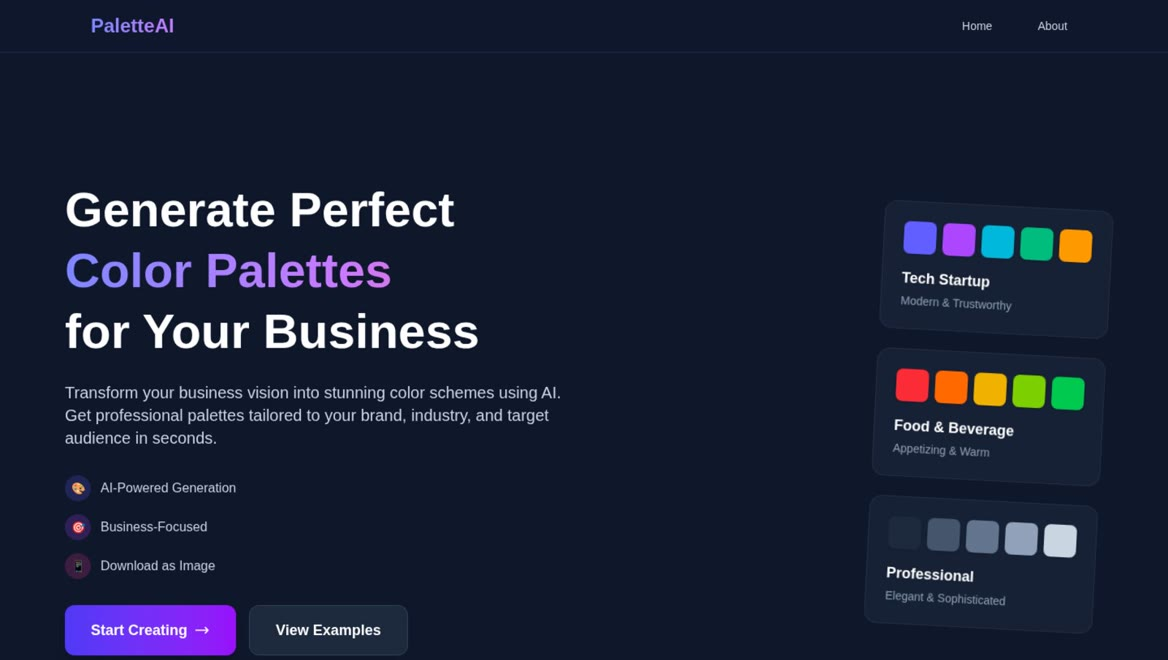
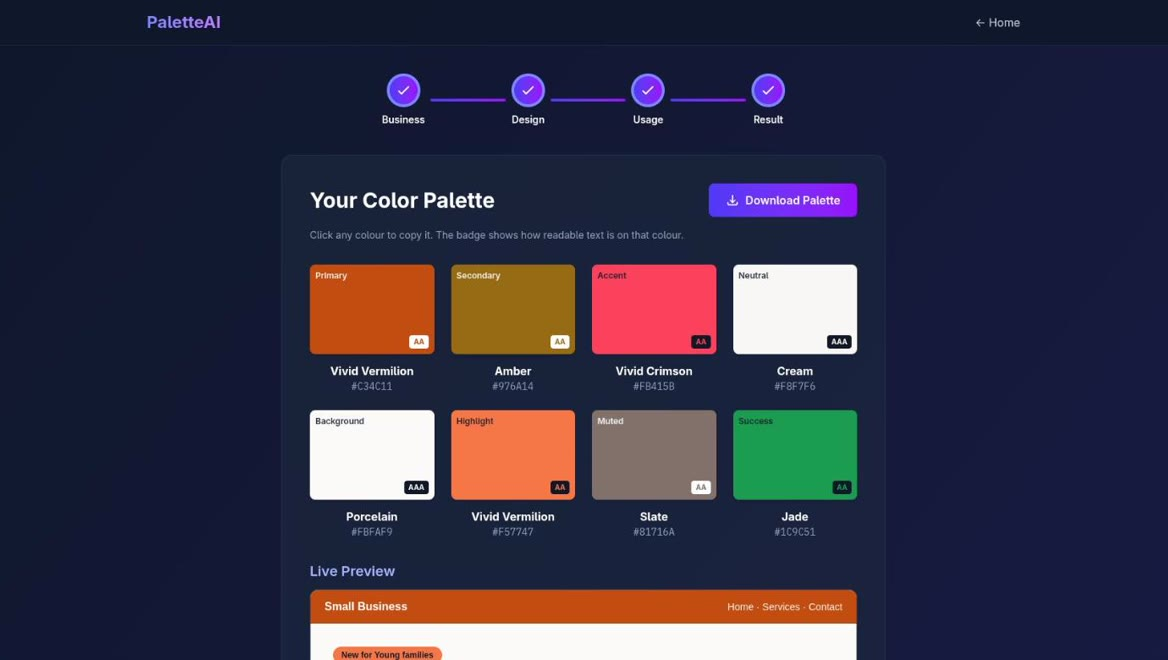
Update PaletteAI link and screenshot

diff --git a/portfolio/src/constants/index.js b/portfolio/src/constants/index.js
@@ -190,7 +190,7 @@ export const projects = [
     name: "PaletteAI",
     description:
       "Describe a business in one line and Mistral 7B returns a colour palette with its reasoning, styled into swatches you can copy.",
-    href: "https://palette-ai-seven.vercel.app",
+    href: "https://palette-ai-generator.vercel.app",
     image: "/assets/projects/paletteai.jpg",
     frameworks: [
       { id: 1, name: "React" },
@@ -198,7 +198,7 @@ export const projects = [
       { id: 3, name: "Mistral 7B" },
     ],
     repoUrl: "https://github.com/AmarWaqar-TSKLI/PaletteAI",
-    liveUrl: "https://palette-ai-seven.vercel.app",
+    liveUrl: "https://palette-ai-generator.vercel.app",
     features: [
       "Idea to palette in one prompt",
       "Reasoning for every colour",
